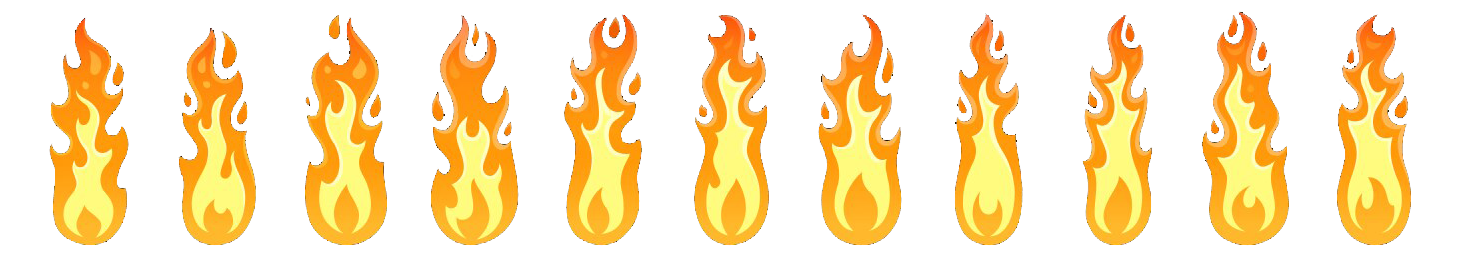
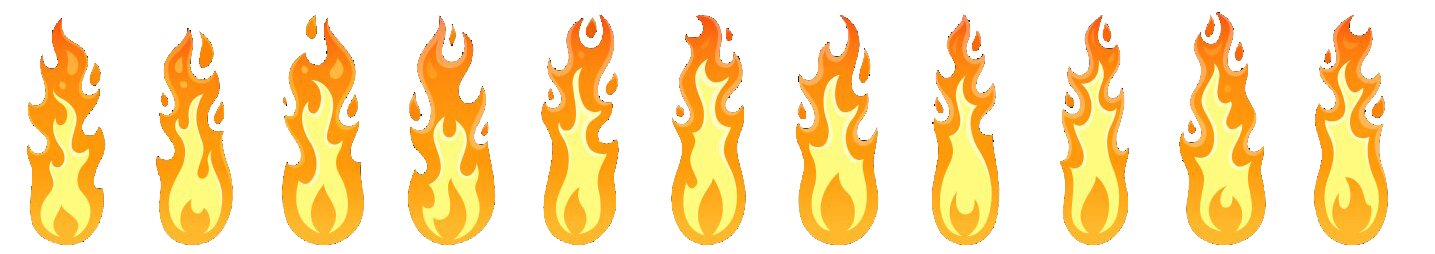
editing the editor

diff --git a/src/customTile.ts b/src/customTile.ts
@@ -1,34 +1,51 @@
-let yellow = false;
-let pacman = false;
-let wall = false;
-let ghost = false;
+import grapes from "./assets/grapes.png";
+import banana from "./assets/banana.png";
+import corona from "./assets/banana.png";
+import singleFire from "./assets/single-fire.png";
+import wall from "./assets/wall.png";
+let grapesBool = false;
+let bananaBool = false;
+let coronaBool = false;
+let singleFireBool = false;
+let wallBool = false;
 
-function pacmanFunc() {
-  pacman = true;
-  yellow = false;
-  wall = false;
-  ghost = false;
+function grapesFunc() {
+  grapesBool = true;
+  bananaBool = false;
+  coronaBool = false;
+  singleFireBool = false;
+  wallBool = false;
 }
 
-function yellowFunc() {
-  yellow = true;
-  pacman = false;
-  wall = false;
-  ghost = false;
+function bananaFunc() {
+  bananaBool = true;
+  grapesBool = false;
+  coronaBool = false;
+  singleFireBool = false;
+  wallBool = false;
 }
 
+function coronaFunc() {
+  coronaBool = true;
+  bananaBool = false;
+  grapesBool = false;
+  singleFireBool = false;
+  wallBool = false;
+}
+
+function fireFunc() {
+  singleFireBool = true;
+  coronaBool = false;
+  grapesBool = false;
+  wallBool = false;
+  bananaBool = false;
+}
 function wallFunc() {
-  wall = true;
-  yellow = false;
-  pacman = false;
-  ghost = false;
-}
-
-function ghostFunc() {
-  ghost = true;
-  yellow = false;
-  pacman = false;
-  wall = false;
+  singleFireBool = true;
+  coronaBool = false;
+  grapesBool = false;
+  wallBool = true;
+  bananaBool = false;
 }
 
 function save() {
@@ -131,20 +148,23 @@ function addTile(row: number, column: number, tableColumn: HTMLElement) {
   let image = new Image();
   let value: number;
 
-  if (pacman) {
-    image.src = "./images/pacman.png";
-    value = 2;
-  } else if (yellow) {
-    image.src = "./images/yellowDot.png";
-    value = 0;
-  } else if (wall) {
-    image.src = "./images/wall.png";
+  if (wallBool) {
+    image.src = wall;
     value = 1;
-  } else if (ghost) {
-    image.src = "./images/ghost.png";
+  } else if (grapesBool) {
+    image.src = grapes;
+    value = 2;
+  } else if (bananaBool) {
+    image.src = banana;
     value = 3;
+  } else if (coronaBool) {
+    image.src = corona;
+    value = 4;
+  } else if (singleFireBool) {
+    image.src = singleFire;
+    value = 5;
   } else {
-    value = -1;
+    value = 0;
   }
 
   mapObj.map[row][column] = value;

diff --git a/src/classes/Enemy.ts b/src/classes/Enemy.ts
@@ -10,12 +10,13 @@ export class Enemy extends Base {
   spriteWidth = 0;
   spriteHeight = 0;
   hitEnemy: boolean = false;
+  elapsedFrame = 0;
   constructor(position: { x: number; y: number }, w: number, h: number) {
     super(position, h, w);
     this.imageX = 0;
     this.imageY = 39;
-    this.spriteWidth = 108;
-    this.spriteHeight = 248;
+    this.spriteWidth = 126;
+    this.spriteHeight = 254;
     this.hitEnemy = false;
   }
   draw = () => {
@@ -26,8 +27,8 @@ export class Enemy extends Base {
       image,
       this.imageX * this.spriteWidth,
       0,
-      108,
-      248,
+      this.spriteWidth,
+      this.spriteHeight,
       this.position.x,
       this.position.y,
       this.w,
@@ -58,12 +59,14 @@ export class Enemy extends Base {
     // player.checkBoundaryY(this.position.y - player.h);
   };
   moveX = (player: Player, deltaTime: number) => {
+    this.elapsedFrame++;
+
+    if (this.elapsedFrame % 15 === 0) this.imageX++;
+    if (this.imageX >= 7) this.imageX = 0;
     const movementSpeed = (SPEED * deltaTime) / deltaTime;
     if (player.keys["d"] && player.position.x >= 300)
       this.position.x -= movementSpeed;
     else if (player.keys["a"] && player.position.x >= 300)
       this.position.x += movementSpeed;
-    if (this.imageX < 7) this.imageX += 0.01;
-    else this.imageX = 0;
   };
 }

diff --git a/index.html b/index.html
@@ -9,10 +9,12 @@
   <body>
     <div>
       <h1>Building a Tile Map</h1>
-      <img src="./images/pacman.png" onclick="pacmanFunc()" />
-      <img src="./images/wall.png" onclick="wallFunc()" />
-      <img src="./images/yellowDot.png" onclick="yellowFunc()" />
-      <img src="./images/ghost.png" onclick="ghostFunc()" />
+      <img src="./src/assets/banana.png" onclick="bananaFunc()" />
+      <img src="./src/assets/grapes.png" onclick="grapesFunc()" />
+      <img src="./src/assets/corona.png" onclick="coronaFunc()" />
+      <img src="./src/assets/single-fire.png" onclick="fireFunc()" />
+      <img src="./src/assets/wall.png" onclick="walFunc()" />
+
       <button onclick="save()">Save</button>
       <button onclick="next()">Next</button>
       <button onclick="prev()">Prev</button>

diff --git a/src/classes/TileMap.ts b/src/classes/TileMap.ts
@@ -7,7 +7,7 @@ import { Player } from "./Player";
 export class TileMap {
   tileSize: number = 32;
 
-  map = localStorage.getItem("map")
+  map = localStorage.getItem("mapi")
     ? JSON.parse(localStorage.getItem("map")!)
     : [
         [
@@ -139,7 +139,7 @@ export class TileMap {
           0, 0, 0, 0, 0,
         ],
         [
-          0, 0, 0, 0, 0, 0, 0, 0, 0, 0, 3, 3, 3, 3, 3, 0, 0, 0, 0, 0, 0, 0, 0,
+          0, 0, 0, 0, 0, 0, 0, 0, 0, 0, 3, 0, 0, 0, 0, 0, 0, 0, 0, 0, 0, 0, 0,
           0, 0, 0, 0, 0, 0, 0, 0, 0, 0, 0, 0, 0, 0, 0, 0, 0, 0, 0, 0, 0, 0, 0,
           0, 0, 0, 0, 0, 0, 0, 0, 0, 0, 0, 0, 0, 0, 0, 0, 0, 0, 0, 0, 0, 0, 0,
           0, 0, 0, 0, 0, 0, 0, 0, 0, 0, 0, 0, 0, 0, 0, 0, 0, 0, 0, 0, 0, 0, 0,
